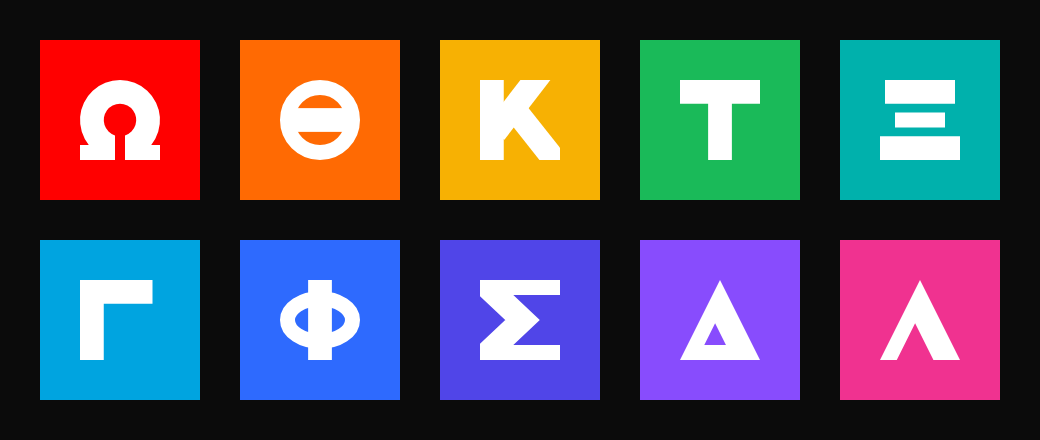
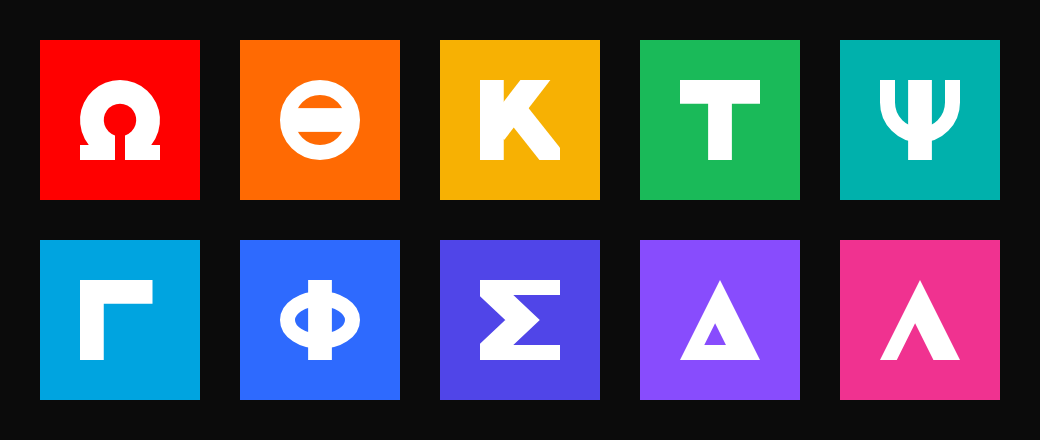
Rename Xi to Psi with a new Ψ rune [screenshots]
Thick centre stem with a thin U-shaped cup (two arms and a round bowl),
using the same 19/12 strokes, footprint and teal tile as before.

Claude-Session: https://claude.ai/code/session_01CuCKjdj9Km3nDZxW1gw1r1

Changed region(s): [[0.8308, 0.1773, 0.9231, 0.3841]]

diff --git a/apps/omega/src/brand/Logos.tsx b/apps/omega/src/brand/Logos.tsx
@@ -119,12 +119,11 @@ function Rune({ app, color }: { app: AppKind; color: string }) {
       );
       break;
     case 'web':
-      // Ξ Xi
+      // Ψ Psi
       body = (
         <>
-          <rect x="36" y="32" width="56" height="19"/>
-          <rect x="44" y="58.0" width="40" height="12"/>
-          <rect x="32" y="77" width="64" height="19"/>
+          <rect x="54.5" y="32" width="19" height="64"/>
+          <path d="M38,32 V50 A26,26 0 0 0 90,50 V32" fill="none" stroke={color} strokeWidth="12"/>
         </>
       );
       break;

diff --git a/apps/omega/src/brand/themes.ts b/apps/omega/src/brand/themes.ts
@@ -163,11 +163,11 @@ export const THEMES: Record<AppKind, AppTheme> = {
   }),
   web: app({
     id: 'web',
-    name: 'Xi',
+    name: 'Psi',
     description: 'Website, interface and interactive prototype design.',
     category: 'Web & UI Design',
     short: 'Web',
-    letter: 'Ξ',
+    letter: 'Ψ',
     tagline: 'Design responsive sites and apps, then publish or hand off.',
     accent: '#00B1AC',
     accentDeep: '#0A7A76',
